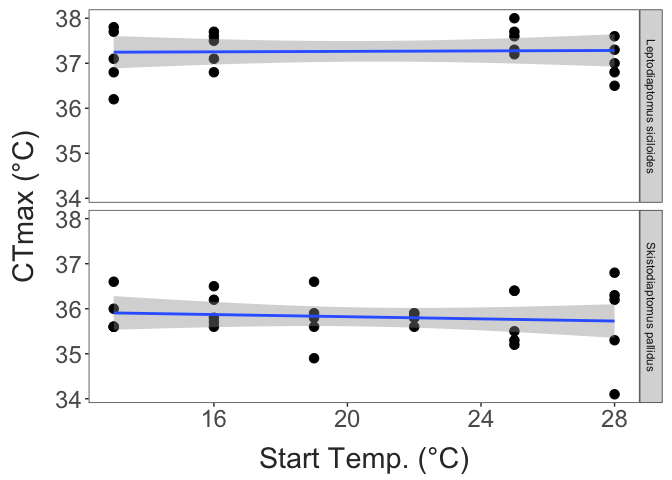
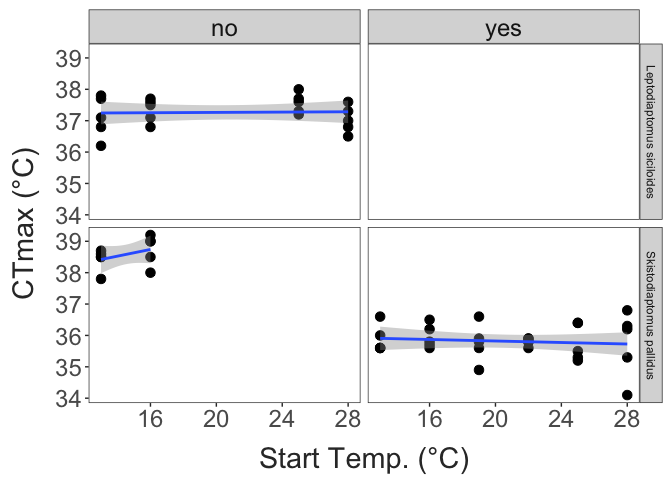
Updating data files and adding new data

diff --git a/Output/Reports/report.md b/Output/Reports/report.md
@@ -1,6 +1,6 @@
 Start temperature does not affect copepod CTmax
 ================
-2026-07-27
+2026-07-28
 
 - [Methods](#methods)
 - [Results](#results)
@@ -38,8 +38,8 @@ species, spanning a range of prior conditions.
 | Species                   | Acclimation History                                     | Acclimation Temperature     |
 |---------------------------|---------------------------------------------------------|-----------------------------|
 | Skistodiaptomus pallidus  | 10 generations in laboratory culture                    | 16°C                        |
-| Skistodiaptomus pallidus  | Field collected (\<5 hours under laboratory conditions) |                             |
-| Leptodiaptomus siciloides | 1 week under laboratory conditions                      | 23°C                        |
+| Skistodiaptomus pallidus  | Field collected (\<5 hours under laboratory conditions) | ~26°C                       |
+| Leptodiaptomus siciloides | \<1 week under laboratory conditions                    | 23°C                        |
 | Leptodiaptomus siciloides | 2 generations in laboratory culture                     | 16°C                        |
 | Onychodiaptomus birgei    | Field collected (\<5 hours under laboratory conditions) | Variable field temperatures |
 
@@ -137,7 +137,7 @@ temperature.
 ``` r
 
 ggplot(trait_data, aes(x = start_temp, y = ctmax)) + 
-  facet_grid(species~.) + 
+  facet_grid(species~lab_acc) + 
   geom_point(size = 3) + 
   geom_smooth(method = "lm") + 
   labs(y = "CTmax (°C)",
@@ -154,10 +154,11 @@ relationship between CTmax and starting temperature.
 
 model_data = trait_data %>% 
   mutate(ctmax_cent = scale(ctmax, center = T, scale = F),
-         start_cent = scale(start_temp, center = T, scale = F))
+         start_cent = scale(start_temp, center = T, scale = F),
+         group_id = paste(species, "-", lab_acc, "lab acc", sep = " "))
 
 temp.model = lme4::lmer(data = model_data, 
-                ctmax ~ species * start_temp + (1|tube))
+                ctmax ~ group_id * start_temp + (1|tube))
 
 performance::check_model(temp.model)
 ```
@@ -169,11 +170,11 @@ car::Anova(temp.model, type = "III")
 ## Analysis of Deviance Table (Type III Wald chisquare tests)
 ## 
 ## Response: ctmax
-##                        Chisq Df Pr(>Chisq)    
-## (Intercept)        8058.5738  1    < 2e-16 ***
-## species               3.9554  1    0.04672 *  
-## start_temp            0.0173  1    0.89525    
-## species:start_temp    0.2865  1    0.59248    
+##                         Chisq Df Pr(>Chisq)    
+## (Intercept)         8517.2097  1     <2e-16 ***
+## group_id               4.2446  2     0.1198    
+## start_temp             0.0183  1     0.8923    
+## group_id:start_temp    1.3192  2     0.5171    
 ## ---
 ## Signif. codes:  0 '***' 0.001 '**' 0.01 '*' 0.05 '.' 0.1 ' ' 1
 ```
